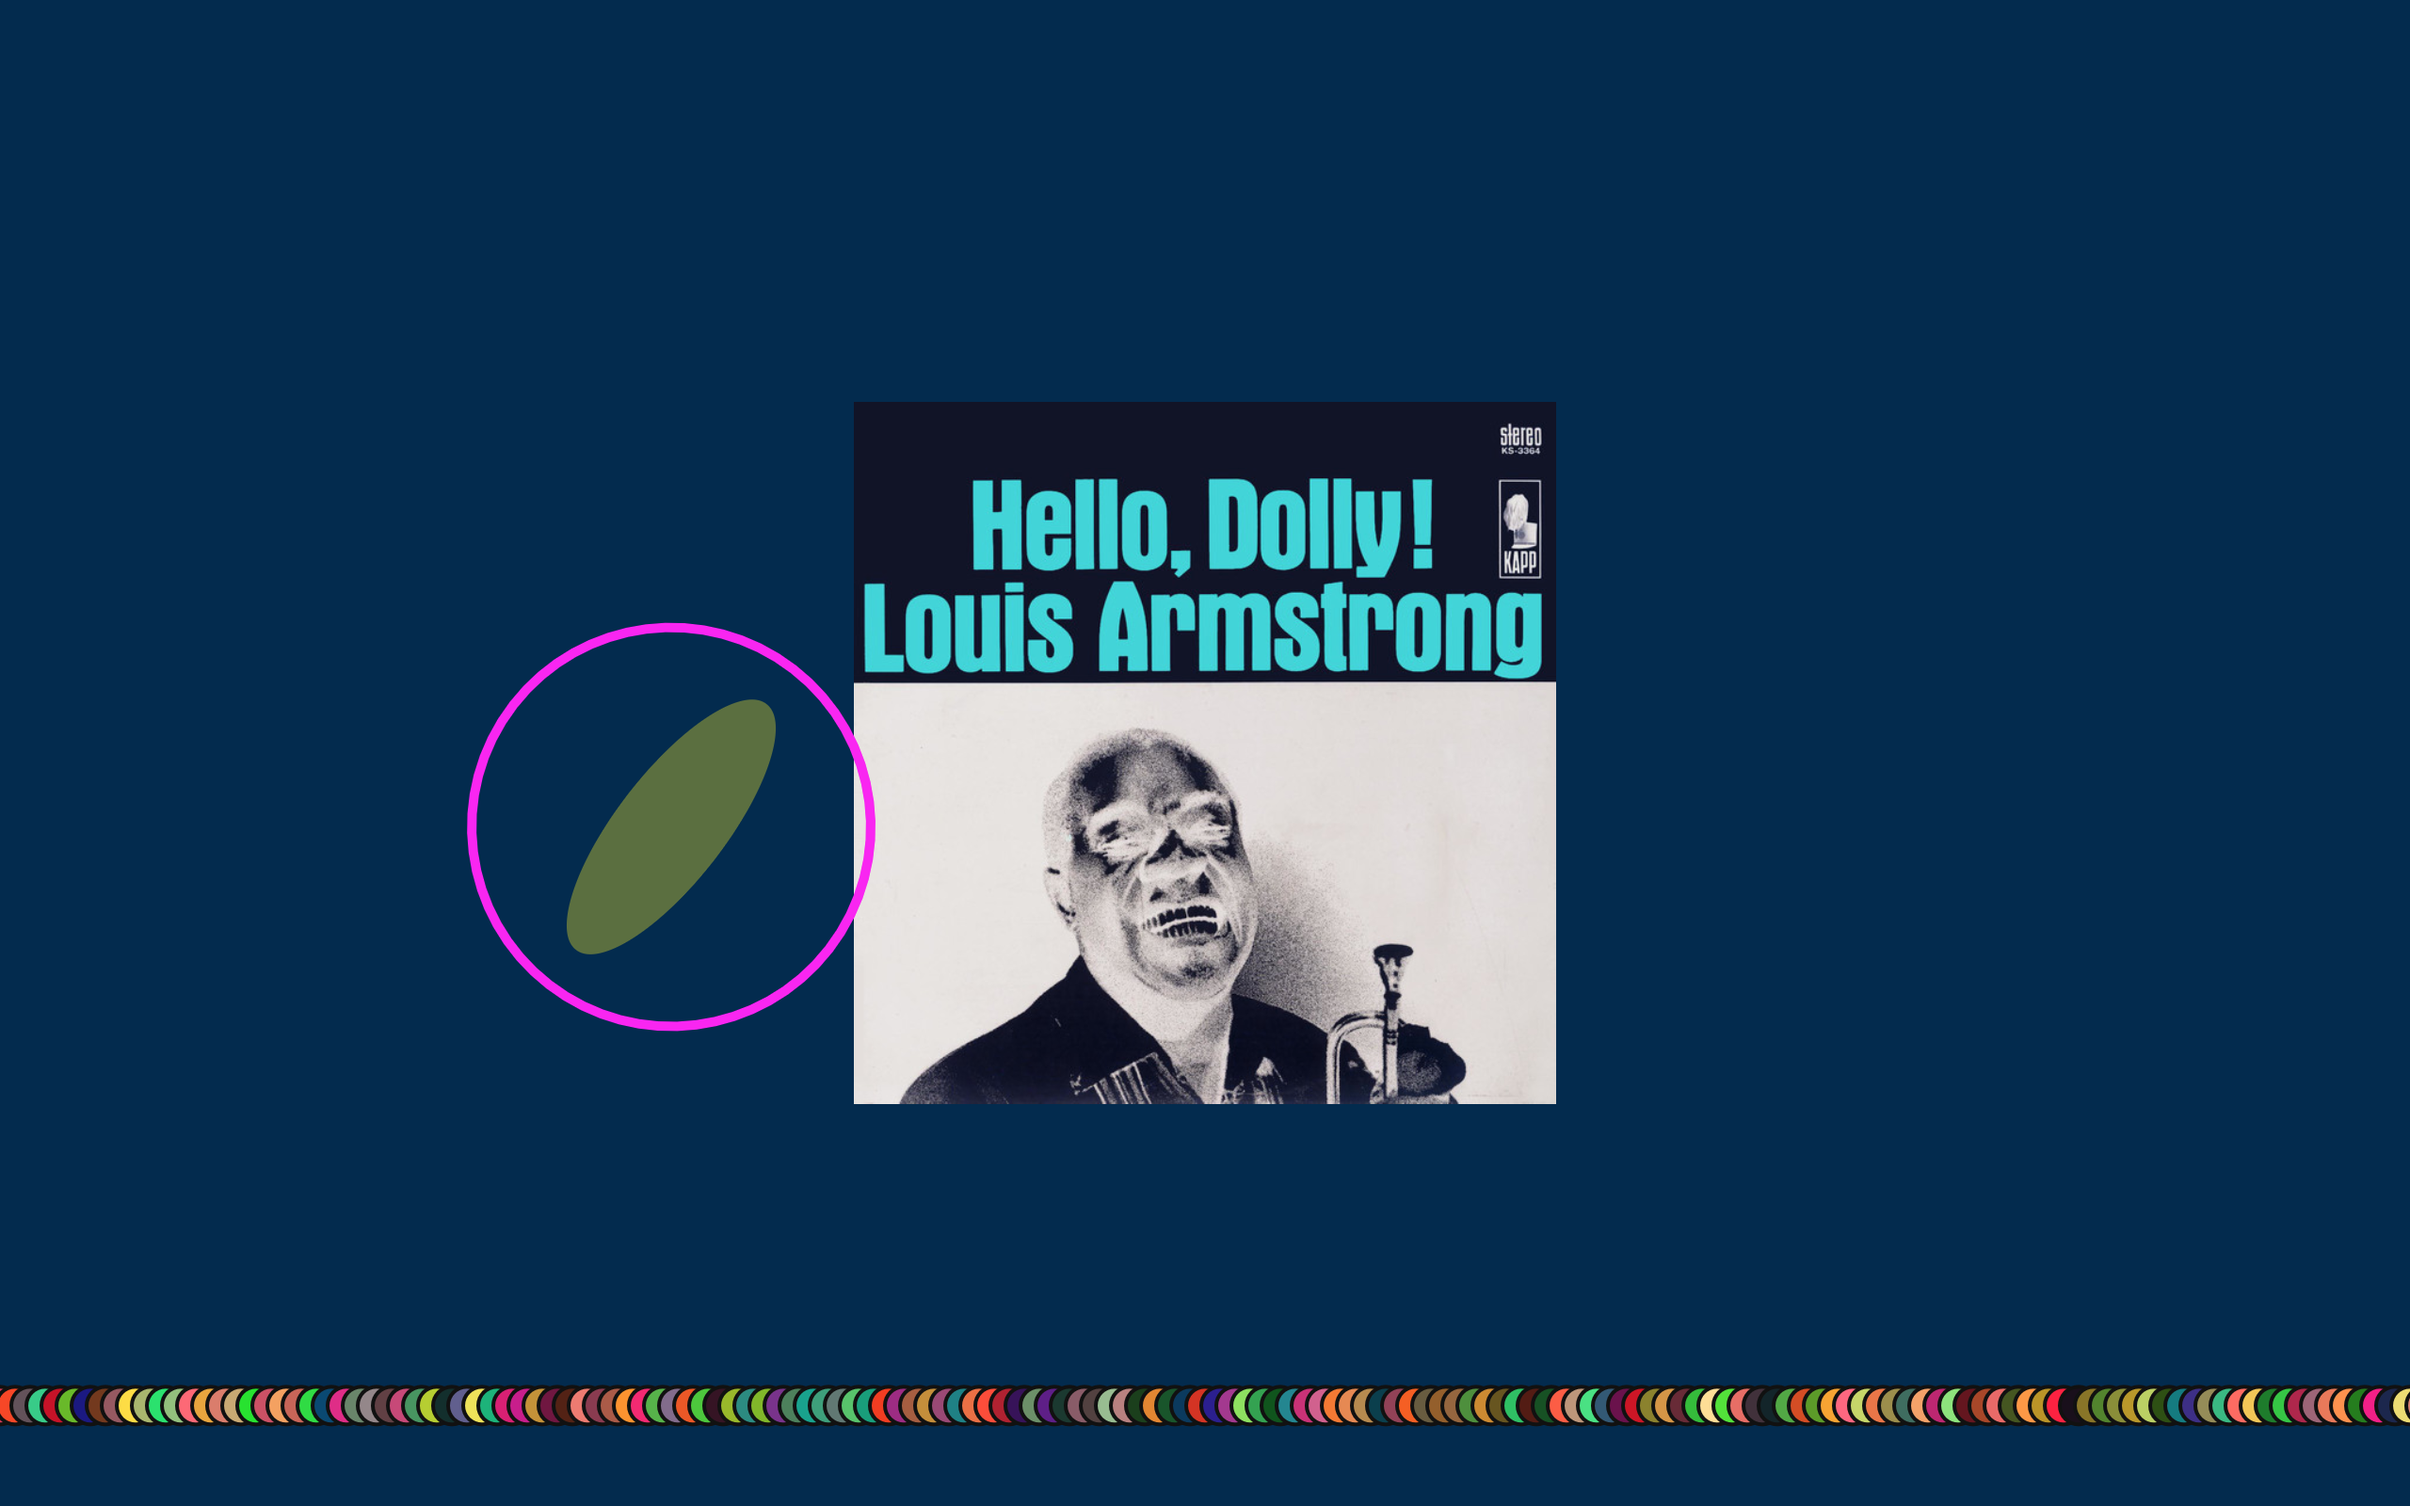
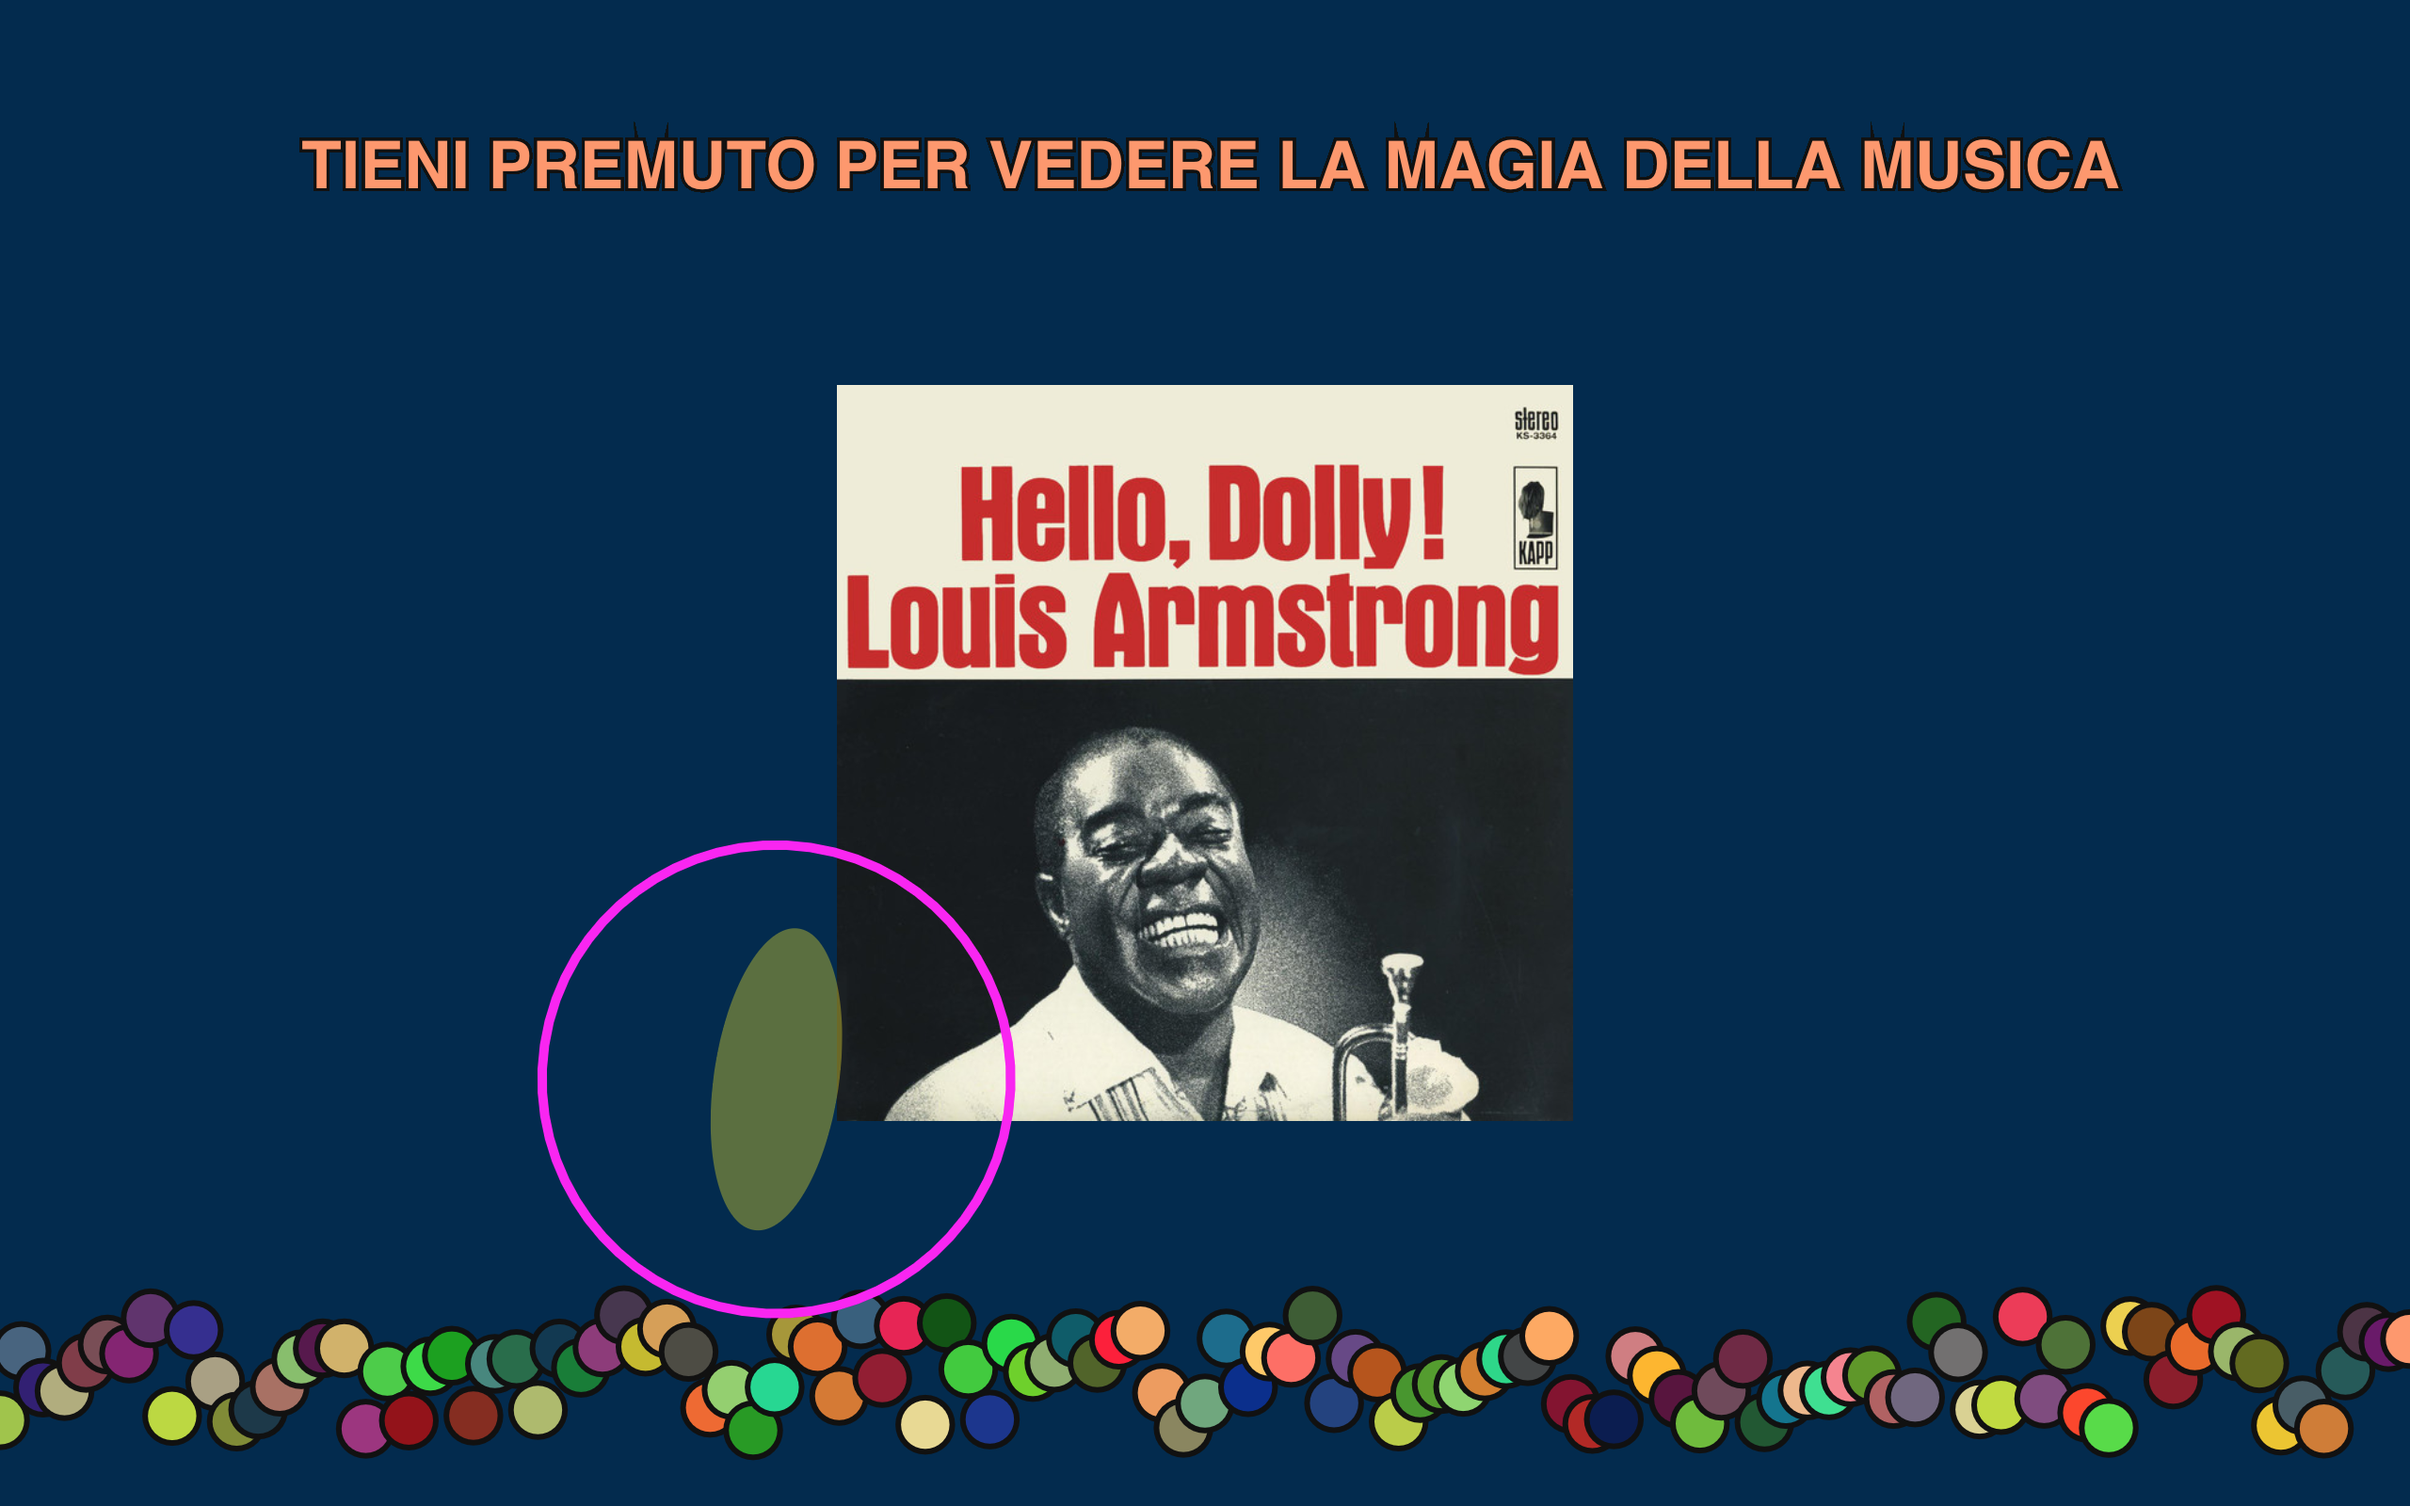
New Cover

diff --git a/sketch.js b/sketch.js
@@ -2,7 +2,6 @@ var mySong;
 var analyzer;
 var myImage;
 var volume;
-var striscia = [];
 
 function preload(){
   // put preload code here
@@ -21,16 +20,6 @@ function setup() {
 
   frameRate(20);
 
-
-  for(var x = 0; x < width + 10; x += height/100)
-  {
-    volume = analyzer.getLevel();
-    volume = map(volume, 0, 1, 50, width/2);
-      var miePalleColorate = new PalleColorate(x, height - height/20, 20);
-
-      striscia.push(miePalleColorate);
-  }
-
 }
 
 function draw() {
@@ -46,11 +35,26 @@ if(mouseX > width/2 - height/6 && mouseY > height/2 - height/6 && mouseX < width
   if(mySong.isPlaying() == false){
    mySong.play();
  }
+
+       fill('white');
+       textSize(35);
+       textFont('Helvetica');
+       textStyle(BOLD);
+       text('TIENI PREMUTO PER VEDERE LA MAGIA DELLA MUSICA', width/8, height/8);
+
  if(mouseIsPressed){
 
-   for(var f = 0; f < striscia.length; f++){
-       striscia[f].display();
-     }
+   for(var x = 0; x < width + 10; x += height/70)
+   {
+     fill(random(0, 275), random(13, 230), random(13, 145));
+     stroke('#111111');
+     strokeWeight(3);
+     ellipse(x, height - height/20 - volume * random(0, 0.5), height/100 + volume/6);
+     textSize(35);
+     textFont('Helvetica');
+     textStyle(BOLD);
+     text('TIENI PREMUTO PER VEDERE LA MAGIA DELLA MUSICA', width/8, height/8);
+   }
 
    myImage.filter("invert");
 
@@ -85,20 +89,6 @@ else{
   noStroke();
   triangle(width/2 - height/20, height/2 - height/20, width/2 - height/20, height/2 + height/20, width/2 + height/18, height/2);
  }
-
-}
-
-function PalleColorate(_x1, _y1, _diameter1){
-  this.x = _x1;
-  this.y = _y1;
-  this.diameter = _diameter1;
-
-  this.display = function() {
-    fill(random(0, 275), random(13, 230), random(13, 145));
-    stroke('#111111');
-    strokeWeight(2);
-    ellipse(this.x, this.y, this.diameter);
-  }
 
 }
 
